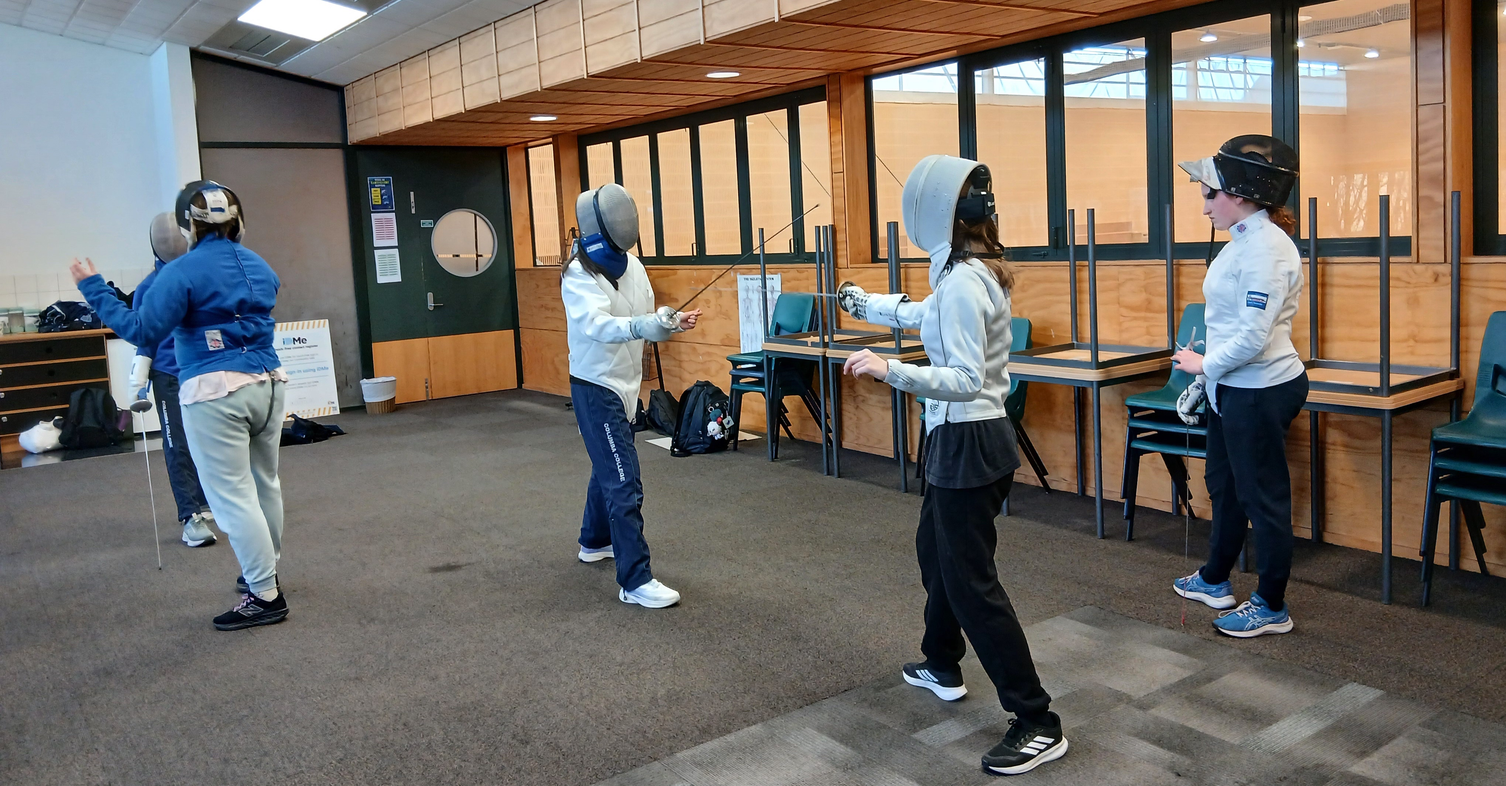
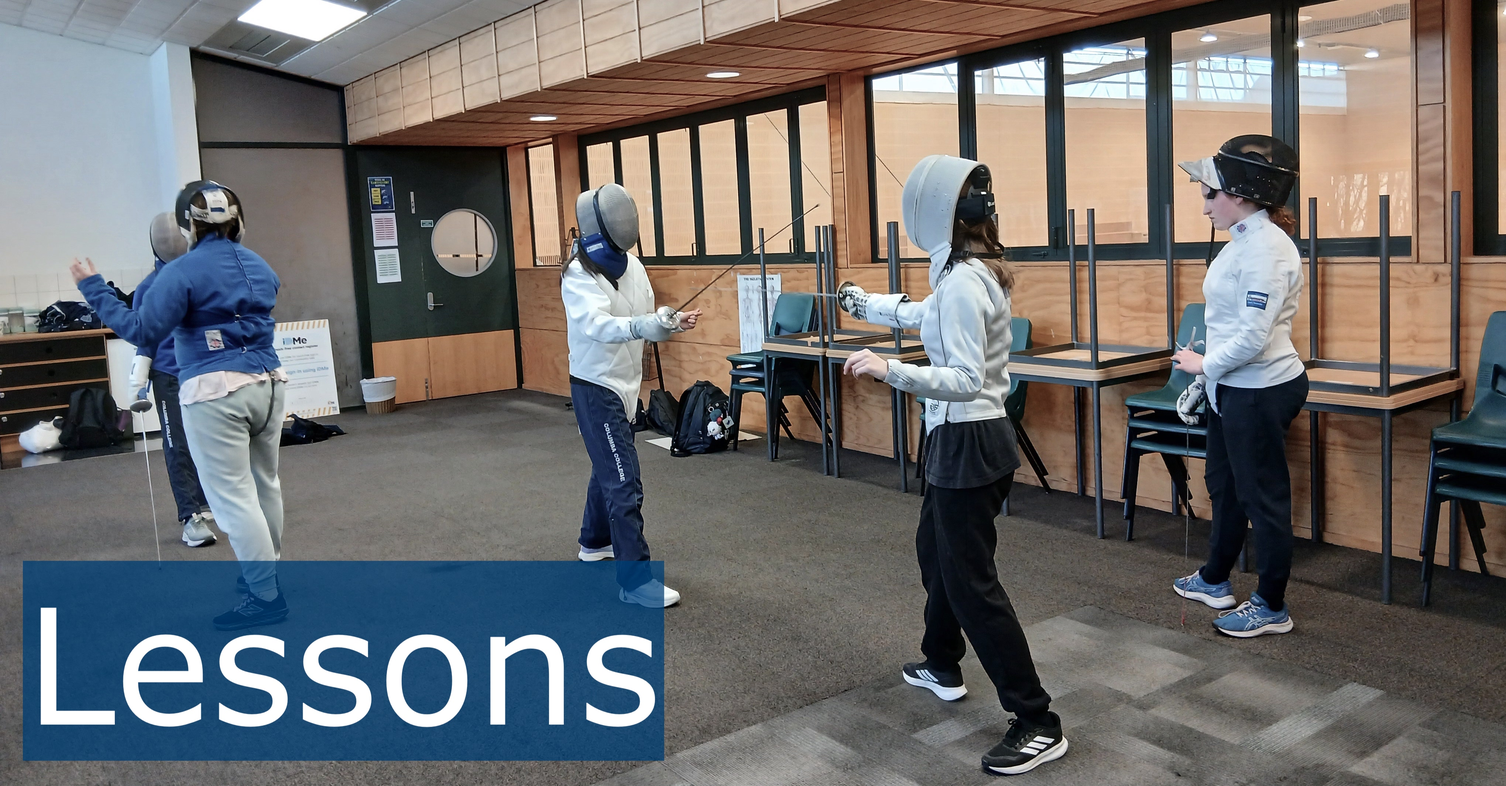
headings and alt text
added in more text and the headings for the lessons page.

diff --git a/lessons.html b/lessons.html
@@ -48,7 +48,7 @@
         <script src="jquery.js"></script> 
 
         <header>
-            <img src="images/heading2 copy 2.jpg" alt="aaa">
+            <img src="images/heading2.jpg" alt="Lessons at Columba fencing.">
         </header>
         
         <div class="section_1">
@@ -80,7 +80,7 @@
         <div class="section_2">
                 <div class="text_container">
                     <h1>What is the S.T.A.B. curriculum and school model?</h1>
-                    <p>The Sword Technical Achievement Badge (S.T.A.B.) curriculum. As stated above this is a course designed for beginners in high school giving students milestones to aim for, as well as a clear plan on how to improve and progress their fencing. There are 5 levels, each building and expanding their knowledge in different areas. Level 1 focuses on the basics that will prepare them for more difficult tasks i.e. footwork, the positions, attack and parry. Level 2 focuses on point control, introducing changes where the attack will threaten the opponent and introducing preparations. Level 3 introduces varying timing of the pressure to control yours and your opponent's blade. Level 4 introduces umpiring and learning how to interpret, understand, and make confident calls on what actions the fencers did, deciding who gets the point. <br><br>
+                    <p>The Sword Technical Achievement Badge (S.T.A.B.) curriculum. As stated above this is a course designed for beginners in high school giving students milestones to aim for, as well as a clear plan on how to improve and progress their fencing. There are 5 levels, each building and expanding their knowledge in different areas. Level 1 focuses on the basics that will prepare them for more difficult tasks i.e. footwork, hand positions, attack and parry. Level 2 focuses on point control, introducing changes where the attack will threaten the opponent and introducing preparations. Level 3 introduces varying timing of the pressure to control yours and your opponent's blade. Level 4 introduces umpiring and learning how to interpret, understand, and make confident calls on what actions the fencers did, deciding who gets the point. Level 5 introduces controlling and predicting your opponents actions, and is an introduction to coaching<br><br>
 
                     This curriculum is used in schools around Dunedin such as Logan Park, Queens High School, and Bayfield. There are also end of term tournaments in which all students from each school are invited to fence against one another. Creating a friendly competition and introducing all students to a tournament style format.</p>
                 </div>

diff --git a/style.css b/style.css
@@ -65,7 +65,6 @@ nav{
 
 header img{
     width: 100%;
-    height: 500px;
 }
 
 /* sections */
